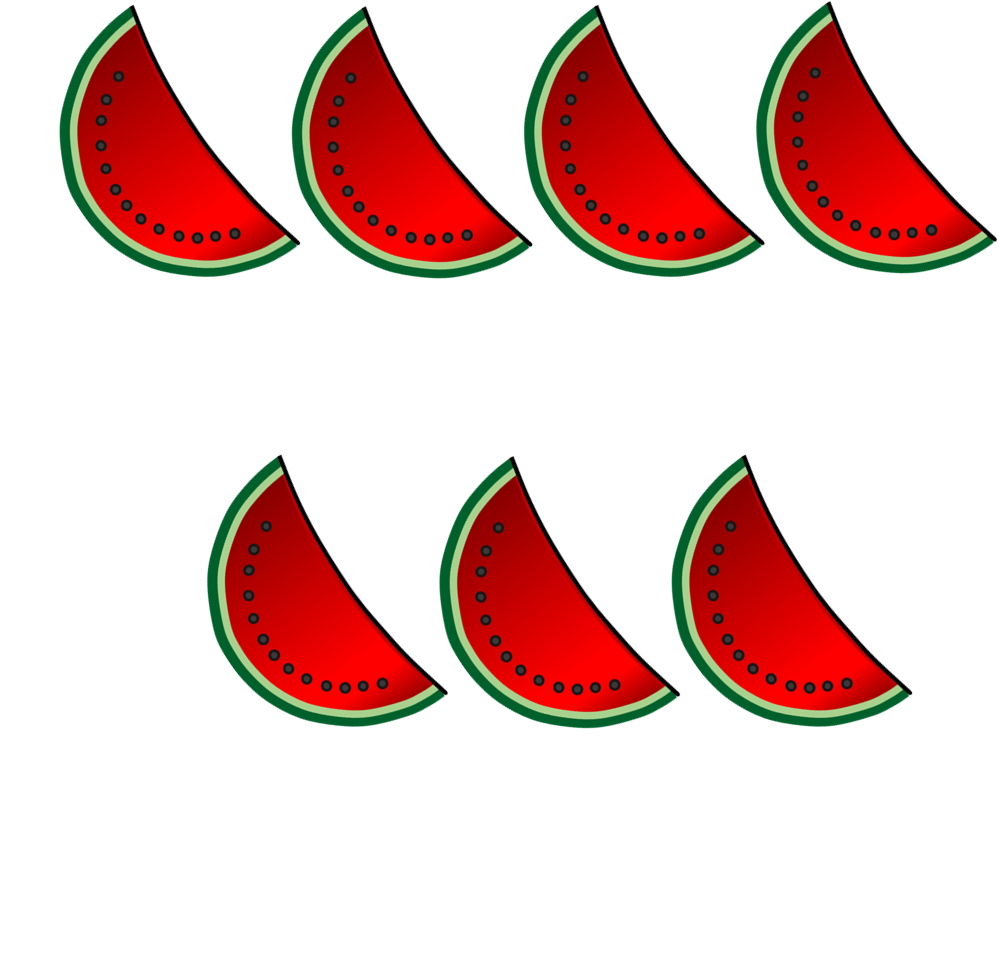
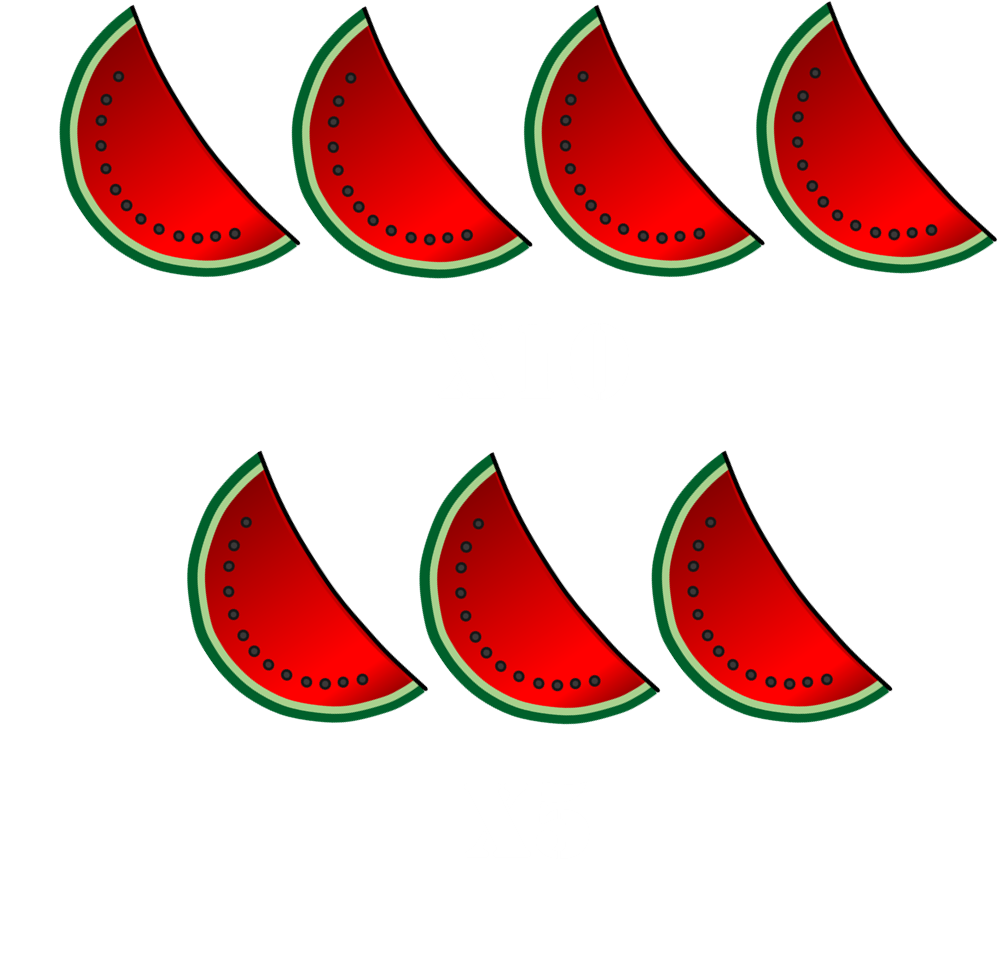
voittotaulukkoa

diff --git a/hedelma.css b/hedelma.css
@@ -87,7 +87,8 @@
     .peliohjeet{
         position:absolute;
         width: 70%;
-        height: 90%;
+        height: auto;
+        min-height: 90%;
         margin: 0 auto;
         border-radius: 5px;
         left: 0;
@@ -105,9 +106,16 @@
 
     .kuvasailio{
         display: flex;
-        flex-direction: column;
+        flex-direction:column;
        
       
+    }
+
+    .kuvaparit{
+        display: flex;
+        flex-direction:row;
+        margin-bottom: 50px;
+       
     }
     .kuvat{
         margin: 0 auto;
@@ -508,12 +516,13 @@
             }
 
             .rulla-container {
-             
+                position: absolute;
                 width: 70%;
                 height: 30%;
                 top: 20%;
                 left: 0;
                 right: 0;
+                top: 30%;
             
             }
 
@@ -578,9 +587,14 @@
             }
             .kuvat{
                 margin: 0 auto;
-                width: 30%;
+                width: 40%;
               
             }
+
+            .peliohjeet{
+                width: 90%;
+            }
+
 
 
         }
@@ -598,11 +612,12 @@
             }
 
             .rulla-container {
-           
+                position: absolute;
                 width: 80%;
                 top: 20%;
                 left: 0;
                 right: 0;
+                top: 30%;
              
             
             }
@@ -674,8 +689,11 @@
 
             .kuvat{
                 margin: 0 auto;
-                width: 30%;
+                width: 40%;
               
+            }
+            .peliohjeet{
+                width: 90%;
             }
 
           

diff --git a/hedelma.html b/hedelma.html
@@ -56,11 +56,26 @@
         <div class="pelikone-container" id="pelikone-container">
             
             <div class="peliohjeet" id="peliohjeet">
+               
                     <div class="kuvasailio">
                         <img src="pelikuvat/wins.png" class="kuvat" width="200" alt="Voitto-otsikko">
-                        <img src="pelikuvat/seiskat.png" class="kuvat"alt="seiskat">
-                        <img src="pelikuvat/melonit.png" class="kuvat"alt="melonit">
-                        
+                       
+                        <div class="kuvaparit">
+                            <img src="pelikuvat/seiskat.png" class="kuvat"alt="seiskat">
+                            <img src="pelikuvat/barit.png" class="kuvat"alt="barit">
+                        </div>
+
+                       
+
+                        <div class="kuvaparit">   
+                            <img src="pelikuvat/eset.png" class="kuvat"alt="eset">
+                            <img src="pelikuvat/liput.png" class="kuvat"alt="liput">
+                        </div>
+
+                        <div class="kuvaparit">   
+                            <img src="pelikuvat/melonit.png" class="kuvat"alt="melonit">
+                            <img src="pelikuvat/tahdet.png" class="kuvat"alt="tahdet">
+                        </div>
                     </div>
                     <div class="takaisin" id="takaisin" onclick="suljeVoitot()"></div>
 
